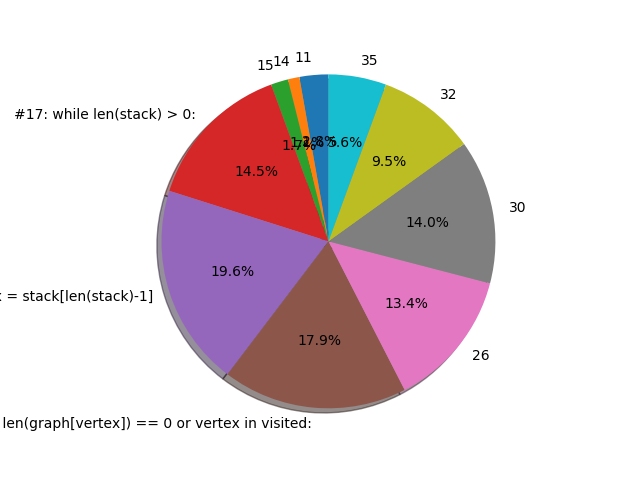
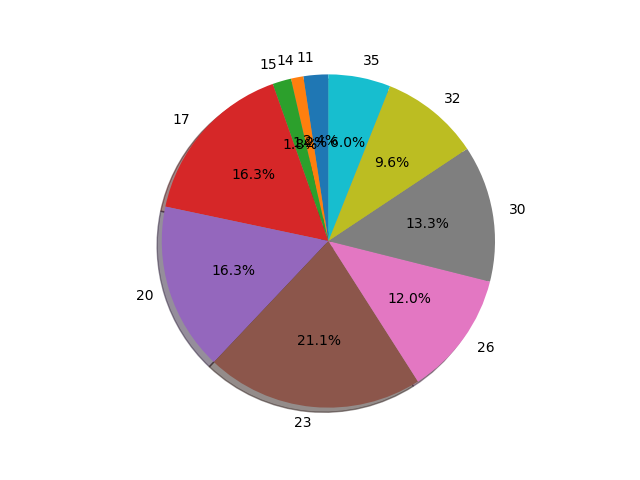
just show line numbers

diff --git a/line_profiler/line_profiler__pie_chart_for_graph_traversal.py b/line_profiler/line_profiler__pie_chart_for_graph_traversal.py
@@ -1,19 +1,12 @@
 import matplotlib.pyplot as plt
 
-def create_chart(stats, lines_of_code, chart_no):
+def create_chart(stats, chart_no):
     labels = []
     timings = []
     for lines in stats.timings.items():
         for line in lines[1]: # the lines
             ' Adds the line of code or line number '
-            if line[2] > 25:
-                ' show line of code if significant '
-                line_of_code = "#%s: %s" % (line[0], lines_of_code[int(line[0])-1].strip())
-                labels.append(line_of_code)
-            else:
-                ' only show line number if smaller'
-                labels.append(line[0]) 
-
+            labels.append(line[0]) 
             ' Adds the timings '
             timings.append(line[2]) # timing
 
@@ -71,12 +64,8 @@ lp_wrapper(graph_1, "A")
 stats2 = lp.get_stats()
 
 
-' read the file to get the lines of code '
-f = open('graph_traversal.py')
-file = f.readlines()
+create_chart(stats1, 1)
+create_chart(stats2, 2)
 
-create_chart(stats1, file, 1)
-create_chart(stats2, file, 2)
-
-#plt.show()
+plt.show()
 
